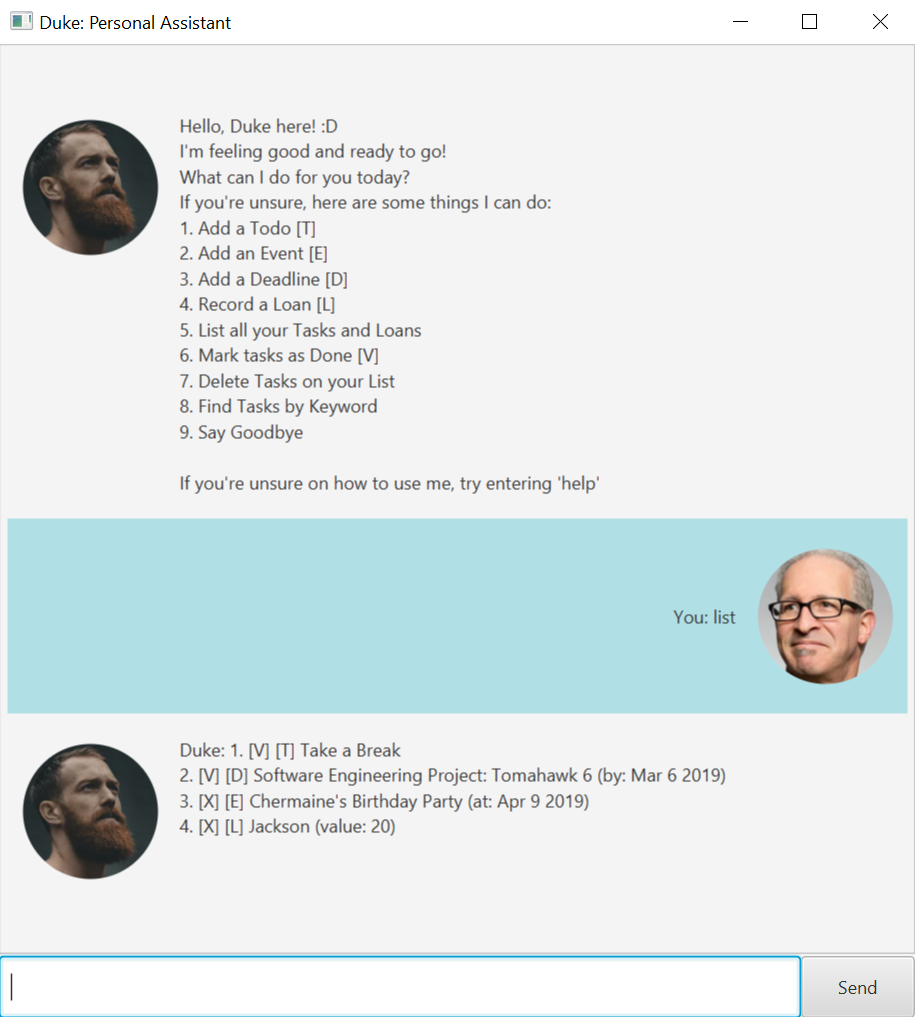
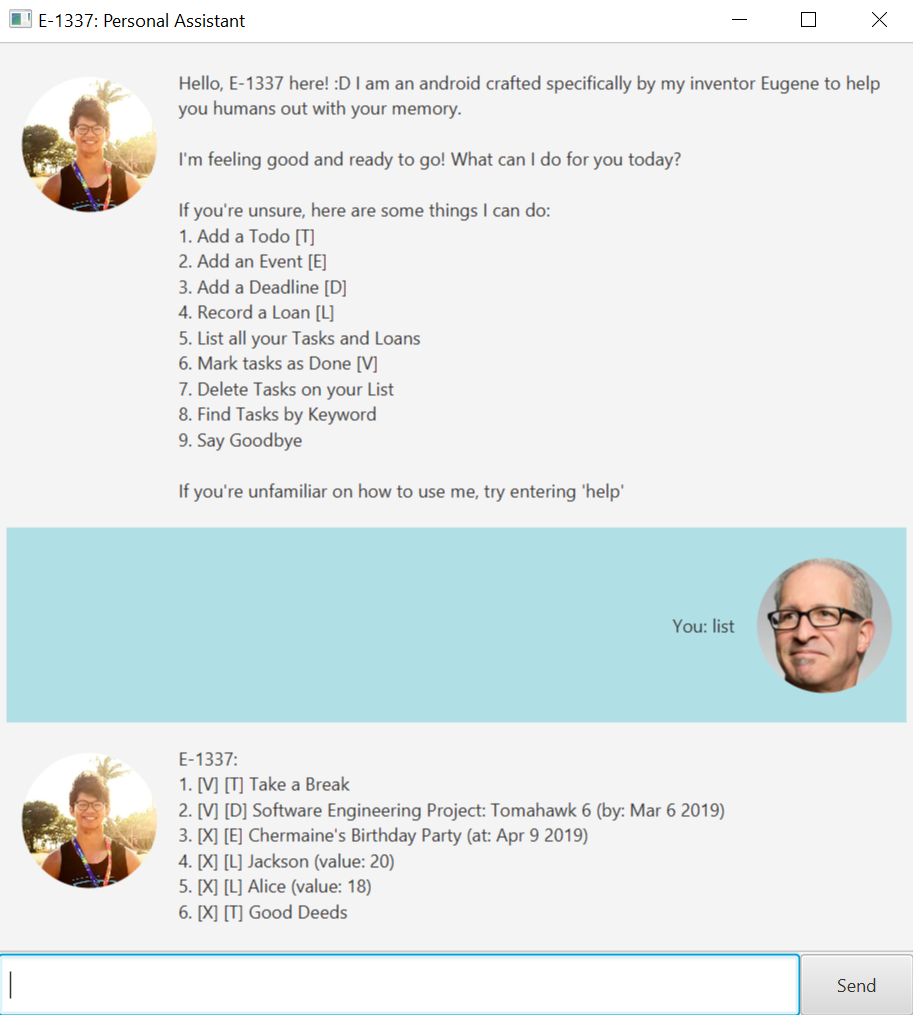
Created User Guide. Also, Fixed bugs regarding delete command indexes.

diff --git a/src/main/java/duke/Ui.java b/src/main/java/duke/Ui.java
@@ -14,10 +14,10 @@ public class Ui {
      * @return String to greet the user with instructions on how to use Duke.
      */
     public static String welcome() {
-        return "Hello, E-1337 here! :D I am an android crafted specifically \n"
+        return "Hello, E-1337 here! :D I am an android crafted specifically "
             + "by my inventor Eugene to help you humans out with your memory.\n"
-            + "I'm feeling good and ready to go!\n"
-            + "What can I do for you today?\n"
+            + "\n"
+            + "I'm feeling good and ready to go! What can I do for you today?\n"
             + "\n"
             + "If you're unsure, here are some things I can do:\n"
             + "1. Add a Todo [T]\n"
@@ -74,8 +74,8 @@ public class Ui {
      * @param allTasks TaskList containing all the Tasks in Duke.
      * @return String indicating removal of a given Task, of its index then and the current number of Tasks remaining.
      */
-    public static String taskRemovalMessage(int index, Task removedTask, TaskList allTasks) {
-        return "Removed Task #" + (index + 1) + ": " + removedTask
+    public static String taskRemovalMessage(Task removedTask, TaskList allTasks) {
+        return "Removed Task: " + removedTask
                 + "\nHope it's worth it!\nYou are now left with " + allTasks.sizeOf() + " tasks.";
     }
 

diff --git a/src/main/java/duke/MainWindow.java b/src/main/java/duke/MainWindow.java
@@ -100,18 +100,21 @@ public class MainWindow extends AnchorPane {
      */
     private String getDukeResponse(String input) {
 
+        String result = "\n";
+
         // automatically exit leaving Ui's goodbye message
         if (input.equals("bye")) {
             Timer timer = new Timer();
             TimerTask exitTask = new TimerTask() {
                 public void run() {
                     Platform.exit();
+                    System.exit(0);
                 }
             };
             timer.schedule(exitTask,3000);
         }
 
-        String result = (input.equals("bye")) ? Ui.goodbye() : duke.run(input);
+        result += (input.equals("bye")) ? Ui.goodbye() : duke.run(input);
 
         assert (result != null || result.equals(" ")) : "Duke has to reply something, which is currently missing.";
 

diff --git a/src/main/java/duke/Main.java b/src/main/java/duke/Main.java
@@ -29,7 +29,7 @@ public class Main extends Application {
             FXMLLoader fxmlLoader = new FXMLLoader(Main.class.getResource("/view/MainWindow.fxml"));
             AnchorPane ap = fxmlLoader.load();
             Scene scene = new Scene(ap);
-            stage.setTitle("Duke: Personal Assistant");
+            stage.setTitle("E-1337: Personal Assistant");
             stage.setScene(scene);
             stage.sizeToScene();
             stage.setMinWidth(625);

diff --git a/src/main/java/duke/TaskList.java b/src/main/java/duke/TaskList.java
@@ -240,7 +240,7 @@ public class TaskList {
                 Task removedTask = allTasks.remove(indexToRemove);
 
                 // Update String result and store changes
-                deleteTaskResponse += Ui.taskRemovalMessage(indexToRemove, removedTask, this) + "\n";
+                deleteTaskResponse += Ui.taskRemovalMessage(removedTask, this) + "\n";
                 Storage.saveChanges(this);
 
             }

diff --git a/docs/README.md b/docs/README.md
@@ -1,20 +1,234 @@
 # User Guide
 
-## Features 
+![Duke Showcase](Ui.png)
 
-### Feature 1 
-Description of feature.
+E-1337 is a Personal Assistant Chatbot which stores and records your to-dos, deadlines, events, and loans.
+This User Guide will demonstrate how to use its capabilities, such that users will have a smooth and productive
+experience with the software.
+
+
+## Start Program
+- Simply open the .jar file on your computer/machine to launch the program.
+- Upon creating an entry or updating any Tasks, a separate file will be created so that you can
+refer to it outside of the program.
+```
+Note: this file will be used for subsequent launches of the program, hence any edits will be reflected the next launch.
+Note: Should this file be absent, a new empty file will be created in its place.
+```
+
+## Task Types
+There are 4 types of Tasks that E-1337 can process. These include:
+```
+ToDo
+Deadline
+Event
+Loan
+```
+
+## Features 
+- Help
+- Add a Task
+- List down all Tasks
+- Mark Tasks as Done
+- Find Tasks by Keywords
+- Delete Tasks
+- Exit the Program
 
 ## Usage
 
-### `Keyword` - Describe action
+### `Help`
 
-Describe action and its outcome.
+The 'help' command provides the users with a list of instructions on how to use the chatbot.
 
 Example of usage: 
 
-`keyword (optional arguments)`
+`help`
 
 Expected outcome:
 
-`outcome`
+![Help Command](Help.png)
+
+### `Add a Task`
+- Adding a Task requires users to know what kind of Task they would like to add. Here, users can choose
+from ToDo, Deadline, Event, or Loan. Below are some provided examples.
+
+```
+The format for adding Tasks is as follows:
+<Task Type> <Task Name> </separator> <Date as YYYY-MM-DD>
+```
+#### `Add a ToDo`
+
+For ToDo Tasks, simply type `todo` and the Task name.
+
+Example of usage:
+
+- Say there was a ToDo Task called Good to be recorded.
+
+`todo Good`
+
+Expected outcome:
+
+![ToDo Example](ToDo.png)
+
+#### `Add a Deadline`
+
+For Deadline Tasks, `/by` separates the Task name and the deadline of completion.
+
+Example of usage:
+
+- Say there was a Deadline Task called Software Engineering Project, due 6 April 2019.
+
+`deadline Software Engineering Project /by 2019-4-6`
+
+Expected outcome:
+
+![Deadline Example](Deadline.png)
+
+#### `Add an Event`
+
+For Event Tasks, `/at` separates the Task name and the date of the Event.
+
+Example of usage:
+
+- Say there was an Event Task called Samuel's Birthday Party happening on 5 May 2019.
+
+`event Samuel's Birthday Party /at 2019-5-5`
+
+Expected outcome:
+
+![Event Example](Event.png)
+
+#### `Add a Loan`
+
+For Loan Tasks, `/value` separates the name of the other party and the value involved.
+
+Example of usage:
+
+- Say that a Loan was made to Judy with a value of $18 worth.
+
+`loan Judy /value 18`
+
+Expected outcome:
+
+![Loan Example](Loan.png)
+
+### `List down all Tasks`
+
+To list down all Tasks that have been recorded, simply use the command `list`.
+
+Example of usage:
+
+`list`
+
+Expected outcome:
+
+![List Command](List.png)
+
+Should the list of Tasks be empty, running the `list` command gives the outcome below.
+
+![Empty List](EmptyList.png)
+
+### `Marking Tasks as Done`
+
+To indicate a Task has been Done, we simply use `done <index number>`.
+- `[V]` denotes a Task as Complete, while `[X]` denotes a Task as Incomplete.
+- Note: The `index number` would be the same we obtain from performing a `list` command.
+
+Example of usage:
+
+- Given that a Loan to Judy worth $18 has an index number of 4, as seen in the section for the list command,
+
+`done 4`
+
+Expected outcome:
+
+![Done Command](Done.png)
+
+### `Find Tasks by Keywords`
+
+E-1337 can help find Tasks by keywords, regardless if the kaywords entered are full or partial, uppercase or lowercase.
+To do so, simply use the `find <keyword>` command.
+
+Example of usage:
+
+- Suppose we want to find any Task containing the variant of 'good' from the list shown.
+![Full List](FullList.png)
+
+- Performing the `find good` command provides the desired outcome.
+
+Expected outcome:
+
+![Find Command](Find.png)
+
+### `Delete Tasks`
+
+To delete Tasks, simply perform the `delete <index>` command.
+- Note: `<index>` can be a single number, a sequence of space-separated numbers, or 'all'.
+
+Example of usage:
+
+- Suppose we wanted to delete the Task with index 4, which is the Loan to Judy.
+
+`delete 4`
+
+Expected outcome:
+
+![Delete 4 Command](Delete4.png)
+
+
+We can also **delete Multiple Tasks** with their index number specified.
+
+Example of usage:
+
+- Suppose we wanted to Delete Tasks 3 (Samuel's Birthday Party) and 5 (GooD) from the list.
+
+![Example List](ExampleList.png)
+
+`delete 3 5`
+
+Expected outcome:
+
+![Delete 3 5](Delete35.png)
+
+We can also delete the **entire list** using `delete all`.
+
+Example of usage:
+
+- Suppose we wanted to delete all the Tasks in the list.
+
+![Example List](ExampleList.png)
+
+`delete all`
+
+Expected outcome:
+
+![Delete All](DeleteAll.png)
+
+### `Exit the Program`
+
+Besides clicking the Close Window button, E-1337 also facilitates exiting the program via chat.
+To do so, simply use the `bye` command, which E-1337 responds with a farewell greeting, before exiting in `3 seconds`.
+
+Example of usage:
+
+`bye`
+
+Expected outcome:
+
+![Bye](Bye.png)
+
+- Note: Upon exit, should there have been any changes (addition, removal, update) of Tasks, a file (LastSavedTasks.txt)
+is created.
+- LastSavedTasks.txt stores the previous session's Tasks to be loaded the next time the application is launched.
+- Should you like to export your Tasks, E-1337 recommends making a copy of it rather than removing it.
+
+#### Disclaimer:
+
+The project uses references from tutorials by Jeffry Lum (@j-lum) for JavaFX.
+
+```
+https://github.com/nus-cs2103-AY1920S2/duke/blob/master/tutorials/javaFxTutorialPart1.md
+https://github.com/nus-cs2103-AY1920S2/duke/blob/master/tutorials/javaFxTutorialPart2.md
+https://github.com/nus-cs2103-AY1920S2/duke/blob/master/tutorials/javaFxTutorialPart3.md
+https://github.com/nus-cs2103-AY1920S2/duke/blob/master/tutorials/javaFxTutorialPart4.md
+```
